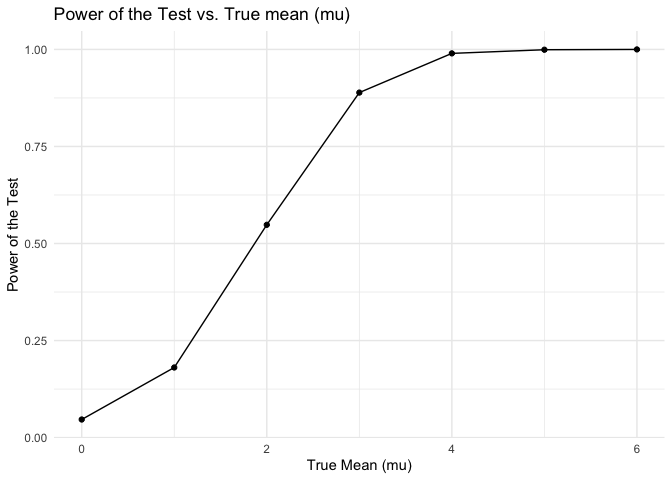
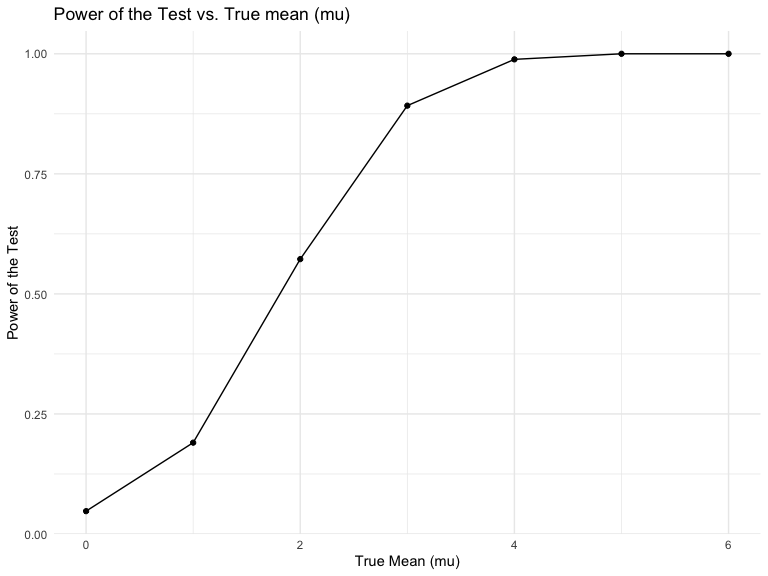
change the plot of problem 2 (add intersection of subject_id and arm)

diff --git a/p8105_hw5_xz3173.md b/p8105_hw5_xz3173.md
@@ -154,11 +154,6 @@ results_df = city_summary |>
   select(city_state, estimate, conf.low, conf.high)
 ```
 
-    ## Warning: There was 1 warning in `mutate()`.
-    ## ℹ In argument: `prop_test_result = map2(...)`.
-    ## Caused by warning in `prop.test()`:
-    ## ! Chi-squared approximation may be incorrect
-
 Create a plot that shows the estimates and CIs for each city – check out
 geom_errorbar for a way to add error bars based on the upper and lower
 limits. Organize cities according to the proportion of unsolved
@@ -189,7 +184,7 @@ plot =
 plot
 ```
 
-![](p8105_hw5_xz3173_files/figure-gfm/unnamed-chunk-5-1.png)<!-- -->
+<img src="p8105_hw5_xz3173_files/figure-gfm/unnamed-chunk-5-1.png" width="90%" />
 
 # Problem 2
 
@@ -353,7 +348,7 @@ file_info = file_info |>
 # Tidy the result; manipulate file names to include control arm and subject ID, make sure weekly observations are “tidy”, and do any other tidying that’s necessary
 tidy_data = file_info |>
   mutate(
-    subject_id = str_extract(file, "(?<=con_|exp_)[0-9]+"), 
+    subject_id = as.numeric(str_extract(file, "(?<=con_|exp_)[0-9]+")), 
     arm = ifelse(str_detect(file, "con"), "con", "exp")) |>
   select(subject_id, arm, data) |>
   unnest(cols = c(data)) |>
@@ -372,17 +367,18 @@ ggplot(
   tidy_data, 
   aes(
     x = week,
-    y = observation, 
-    group = subject_id,
+    y = observation,
+    group = interaction(subject_id, arm),
     color = arm)) +
   geom_line(alpha = 0.5) +
+  geom_point() +
   theme_minimal() +
   labs(title = "Spaghetti Plot of Observations over Time",
        x = "Week",
        y = "Observation") 
 ```
 
-![](p8105_hw5_xz3173_files/figure-gfm/unnamed-chunk-9-1.png)<!-- -->
+<img src="p8105_hw5_xz3173_files/figure-gfm/unnamed-chunk-9-1.png" width="90%" />
 
 **Make a spaghetti plot showing observations on each subject over time,
 and comment on differences between groups.**
@@ -491,12 +487,12 @@ power_analysis
     ## # A tibble: 7 × 2
     ##      mu  power
     ##   <dbl>  <dbl>
-    ## 1     0 0.0466
-    ## 2     1 0.181 
-    ## 3     2 0.548 
-    ## 4     3 0.889 
-    ## 5     4 0.990 
-    ## 6     5 0.999 
+    ## 1     0 0.0476
+    ## 2     1 0.190 
+    ## 3     2 0.572 
+    ## 4     3 0.892 
+    ## 5     4 0.988 
+    ## 6     5 1     
     ## 7     6 1
 
 ``` r
@@ -511,7 +507,7 @@ ggplot(power_analysis, aes(x = mu, y = power)) +
   )
 ```
 
-![](p8105_hw5_xz3173_files/figure-gfm/unnamed-chunk-14-1.png)<!-- -->
+<img src="p8105_hw5_xz3173_files/figure-gfm/unnamed-chunk-14-1.png" width="90%" />
 
 **Describe the association between effect size and power.**
 
@@ -566,13 +562,13 @@ average_estimates
     ## # A tibble: 7 × 3
     ##      mu overall_mean_mu_hat mean_mu_hat_when_rejected
     ##   <dbl>               <dbl>                     <dbl>
-    ## 1     0            -0.00625                    -0.122
-    ## 2     1             0.991                       2.25 
-    ## 3     2             1.99                        2.62 
-    ## 4     3             2.99                        3.18 
-    ## 5     4             4.01                        4.03 
-    ## 6     5             5.01                        5.01 
-    ## 7     6             5.99                        5.99
+    ## 1     0             -0.0309                    -0.324
+    ## 2     1              1.02                       2.29 
+    ## 3     2              2.01                       2.63 
+    ## 4     3              3.02                       3.20 
+    ## 5     4              4.00                       4.03 
+    ## 6     5              5.00                       5.00 
+    ## 7     6              6.00                       6.00
 
 **Overall mean mu_hat: For each true mean value, from 0 to 6, the
 overall estimate of mu_hat is very close to the true mean. This
@@ -600,7 +596,7 @@ ggplot(average_estimates, aes(x = mu)) +
     y = "Average Estimate of mu_hat")
 ```
 
-![](p8105_hw5_xz3173_files/figure-gfm/unnamed-chunk-16-1.png)<!-- -->
+<img src="p8105_hw5_xz3173_files/figure-gfm/unnamed-chunk-16-1.png" width="90%" />
 
 **Is the sample average of μ̂ across tests for which the null is rejected
 approximately equal to the true value of μ ? Why or why not?**
